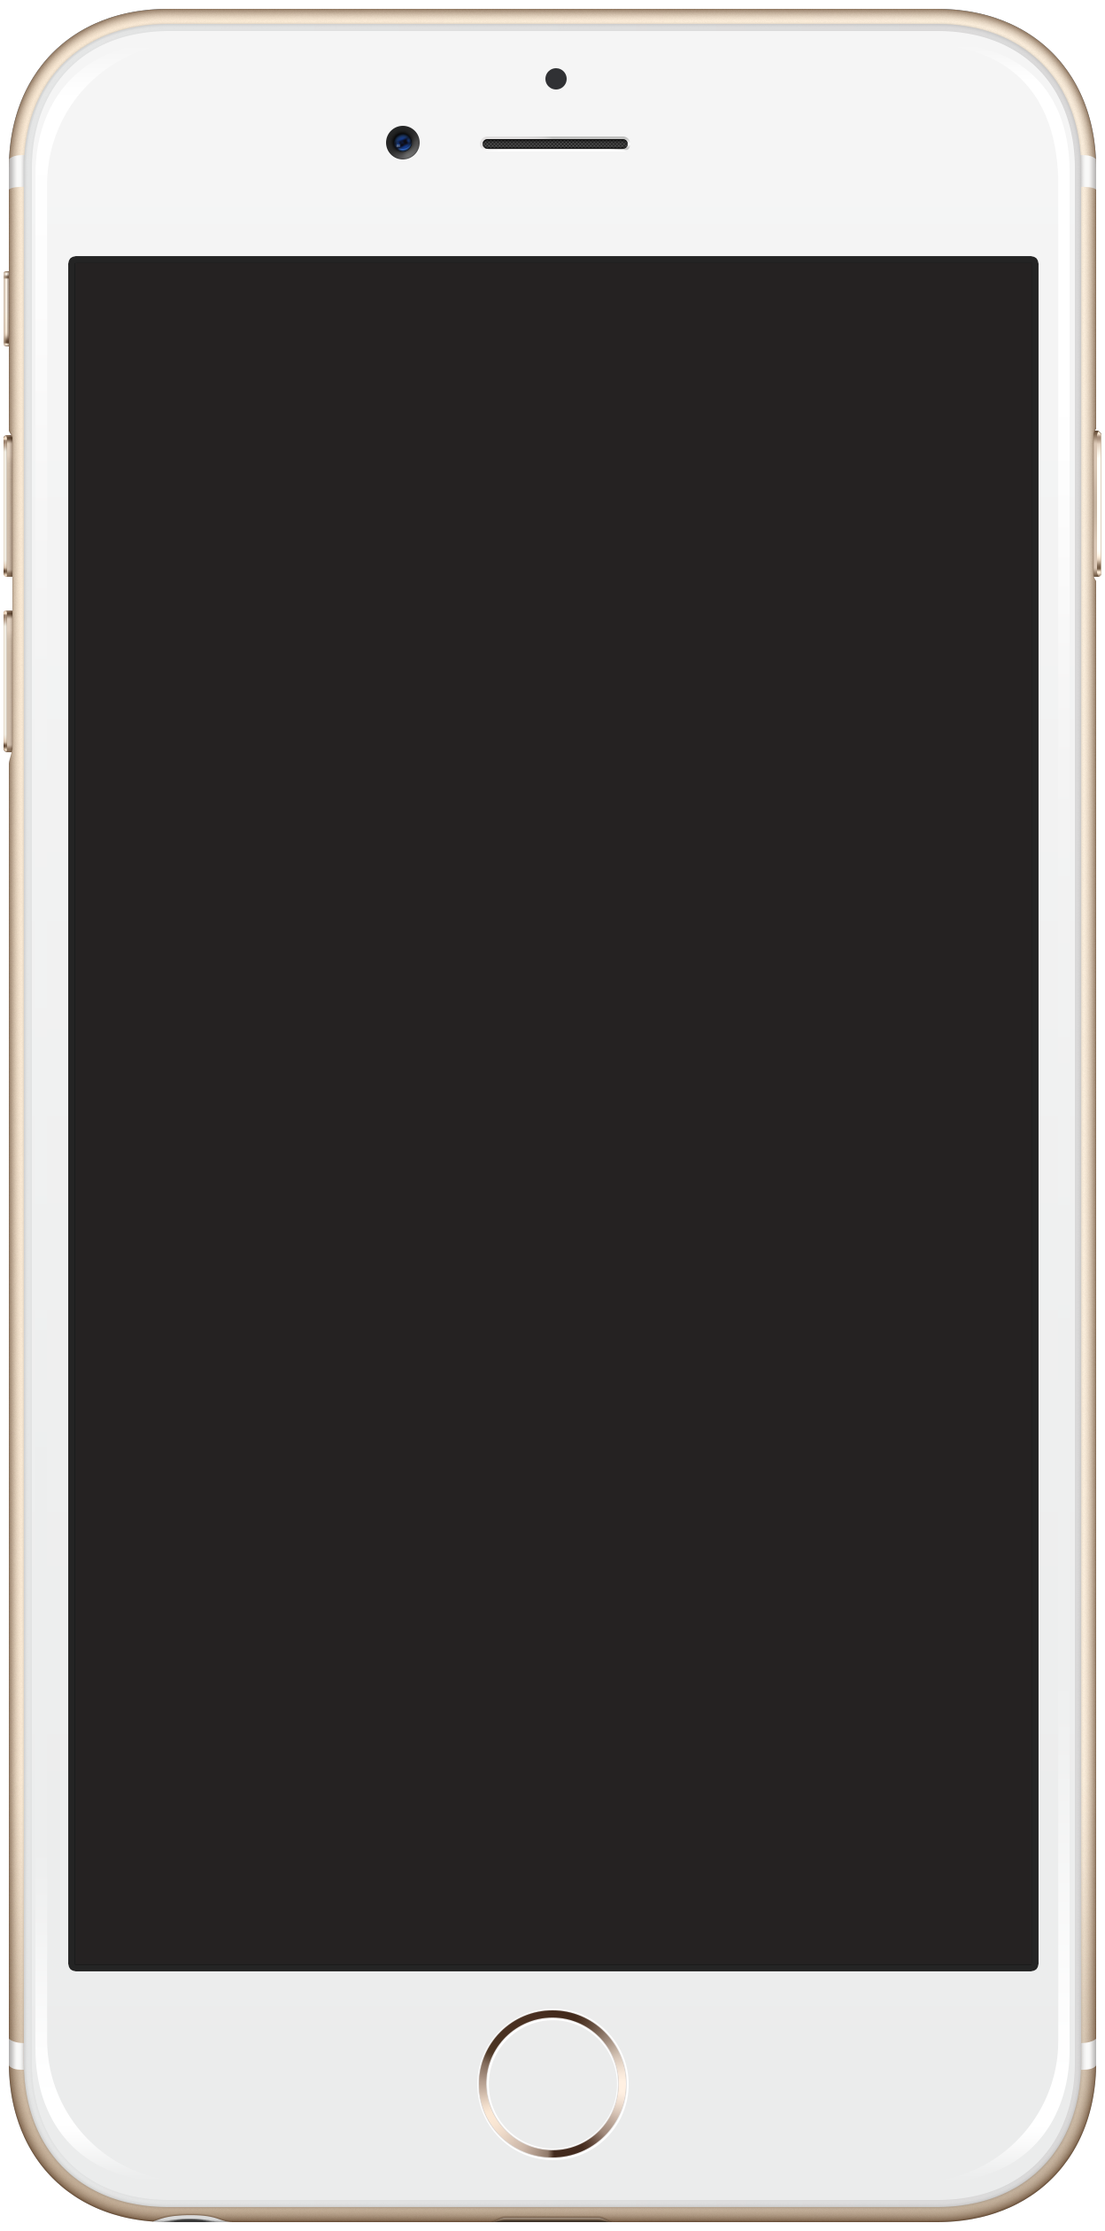
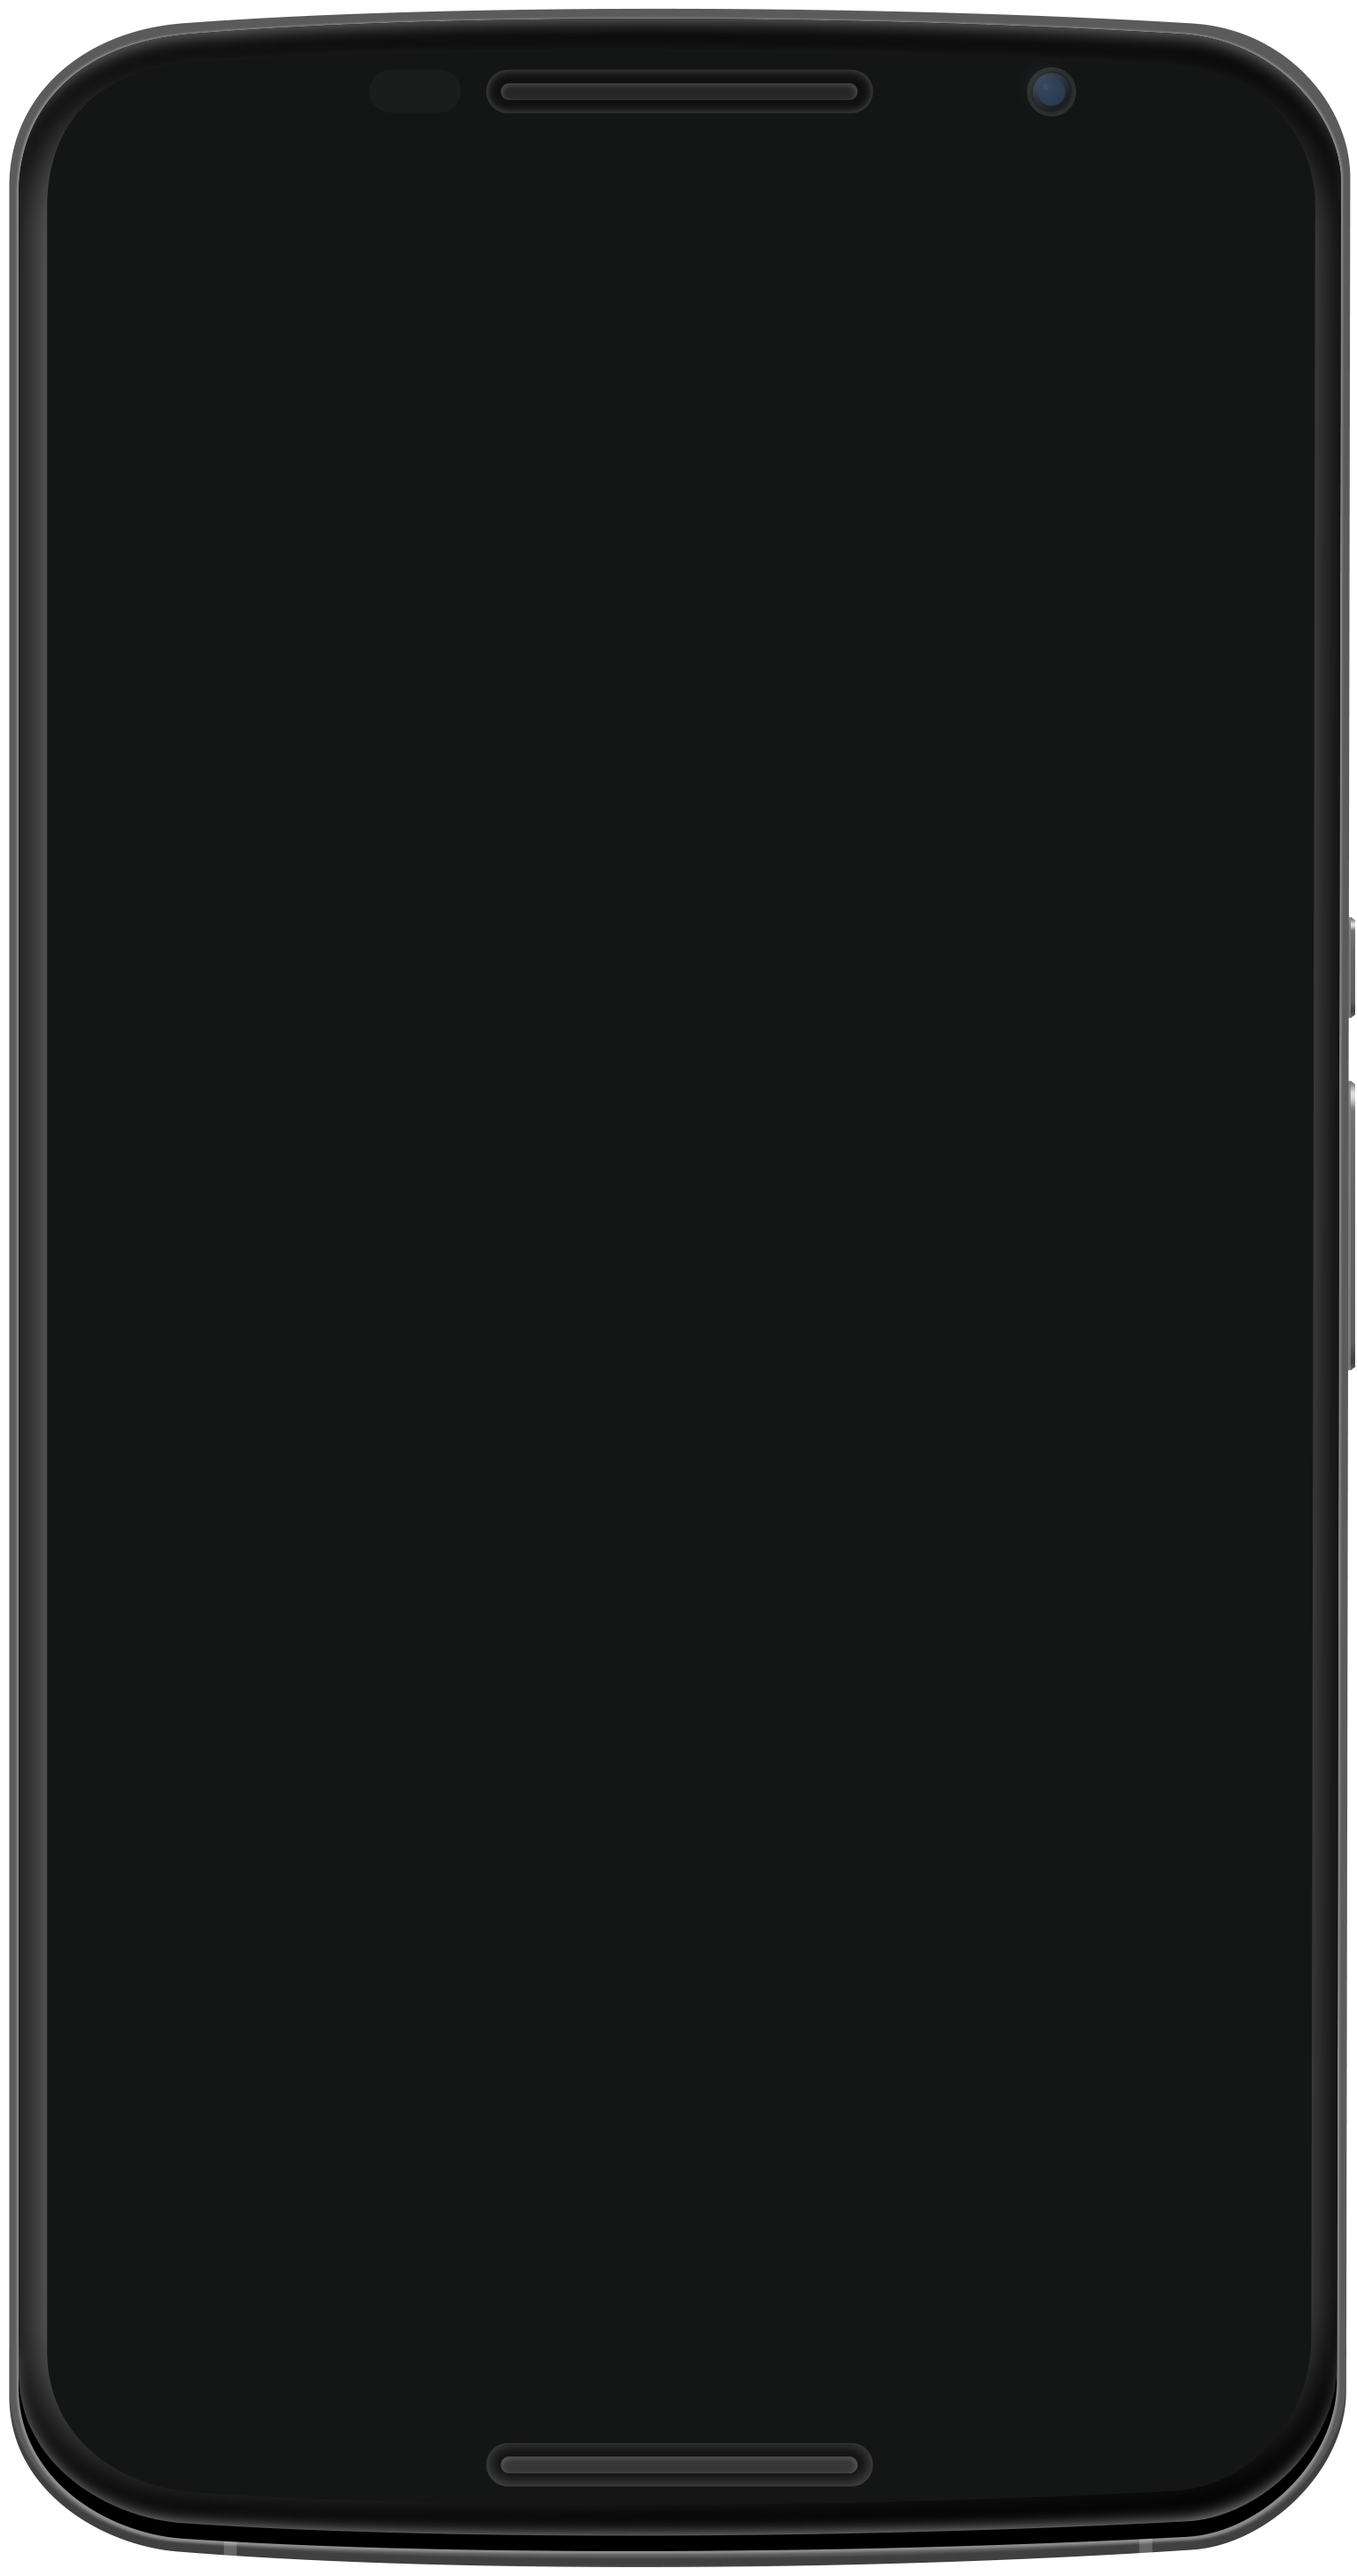
Nexux y captura en el inicio

Changed region(s): [[0.0, 0.0, 1.0, 1.0]]

diff --git a/index.html b/index.html
@@ -8,7 +8,7 @@
     <meta name="description" content="">
     <meta name="author" content="">
 
-    <title>New Age - Start Bootstrap Theme</title>
+    <title>AntHelper</title>
 
     <!-- Bootstrap core CSS -->
     <link href="vendor/bootstrap/css/bootstrap.min.css" rel="stylesheet">
@@ -33,7 +33,7 @@
     <!-- Navigation -->
     <nav class="navbar navbar-expand-lg navbar-light fixed-top" id="mainNav">
       <div class="container">
-        <a class="navbar-brand js-scroll-trigger" href="#page-top">Start Bootstrap</a>
+        <a class="navbar-brand js-scroll-trigger" href="#page-top">Inicio</a>
         <button class="navbar-toggler navbar-toggler-right" type="button" data-toggle="collapse" data-target="#navbarResponsive" aria-controls="navbarResponsive" aria-expanded="false" aria-label="Toggle navigation">
           Menu
           <i class="fa fa-bars"></i>
@@ -41,13 +41,13 @@
         <div class="collapse navbar-collapse" id="navbarResponsive">
           <ul class="navbar-nav ml-auto">
             <li class="nav-item">
-              <a class="nav-link js-scroll-trigger" href="#download">Download</a>
+              <a class="nav-link js-scroll-trigger" href="#download">Descargar</a>
             </li>
             <li class="nav-item">
-              <a class="nav-link js-scroll-trigger" href="#features">Features</a>
+              <a class="nav-link js-scroll-trigger" href="#features">Características</a>
             </li>
             <li class="nav-item">
-              <a class="nav-link js-scroll-trigger" href="#contact">Contact</a>
+              <a class="nav-link js-scroll-trigger" href="#contact">Contacto</a>
             </li>
           </ul>
         </div>
@@ -59,17 +59,17 @@
         <div class="row h-100">
           <div class="col-lg-7 my-auto">
             <div class="header-content mx-auto">
-              <h1 class="mb-5">New Age is an app landing page that will help you beautifully showcase your new mobile app, or anything else!</h1>
-              <a href="#download" class="btn btn-outline btn-xl js-scroll-trigger">Start Now for Free!</a>
+              <h1 class="mb-5">La herramienta para ayudarte a cuidear a tus hormigas</h1>
+              <a href="#download" class="btn btn-outline btn-xl js-scroll-trigger">¡Descargala ya!</a>
             </div>
           </div>
           <div class="col-lg-5 my-auto">
             <div class="device-container">
-              <div class="device-mockup iphone6_plus portrait white">
+              <div class="device-mockup iphone6_plus portrait gold">
                 <div class="device">
                   <div class="screen">
                     <!-- Demo image for screen mockup, you can put an image here, some HTML, an animation, video, or anything else! -->
-                    <img src="img/demo-screen-1.jpg" class="img-fluid" alt="">
+                    <img src="img/cap.jpeg" class="img-fluid" alt="">
                   </div>
                   <div class="button">
                     <!-- You can hook the "home button" to some JavaScript events or just remove it -->
